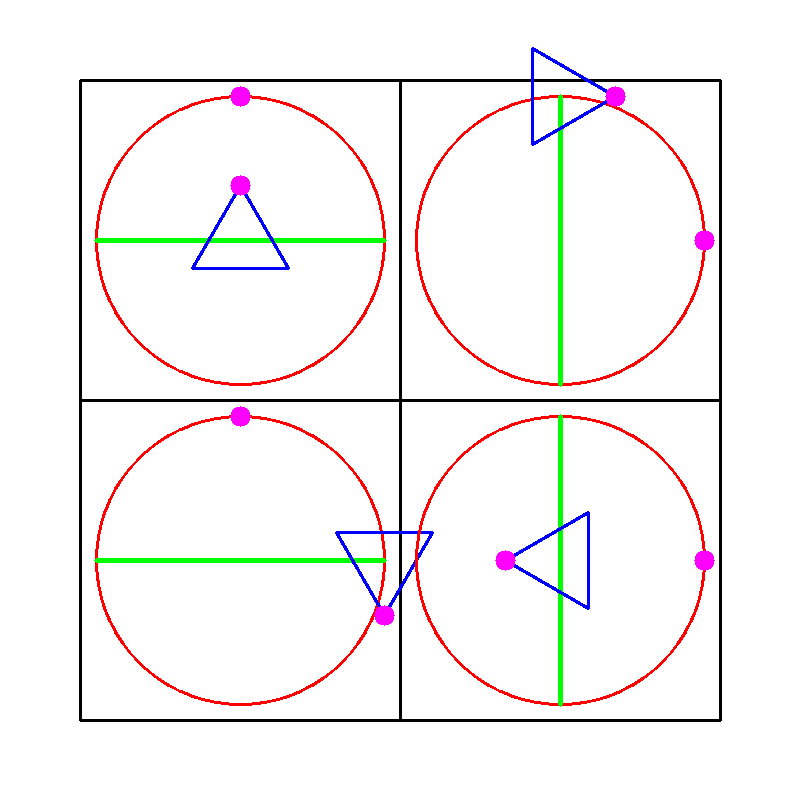
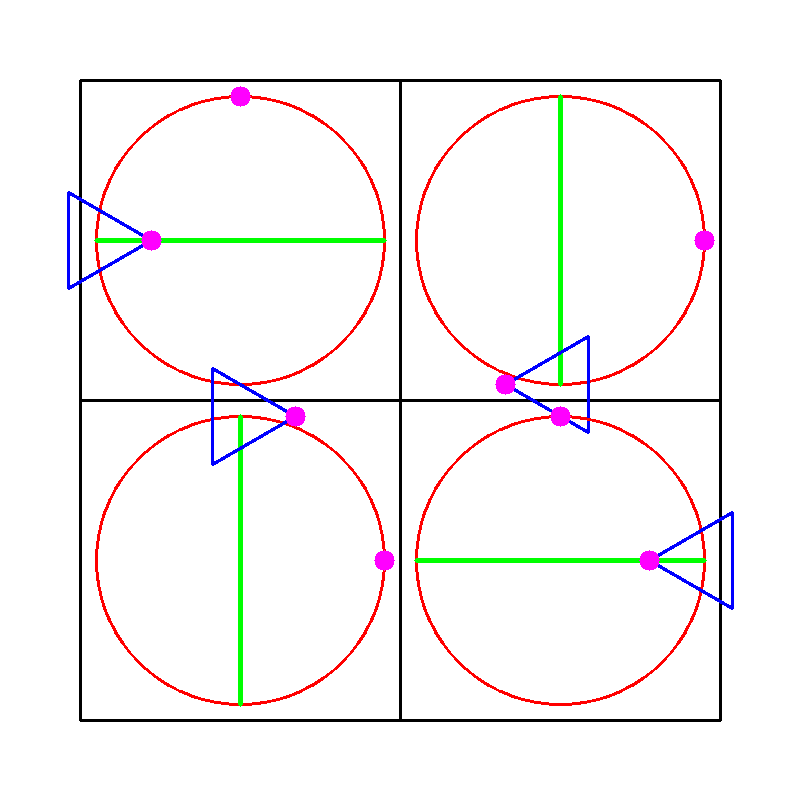
v3 수정 완료

diff --git a/SW/Chain2/main/Chain2_v3.py b/SW/Chain2/main/Chain2_v3.py
@@ -1,0 +1,222 @@
+from pathlib import Path
+import os
+import json
+import re
+import argparse
+from openai import OpenAI
+import time
+
+class SeatControlChatbot:
+    def __init__(self):
+        self.client = None
+        self.chat_history = []
+        self.code_block_regex = re.compile(r"```(.*?)```", re.DOTALL)
+        self.colors = self.Colors()
+        
+    class Colors:
+        RED = "\033[31m"
+        ENDC = "\033[m"
+        GREEN = "\033[32m"
+        YELLOW = "\033[33m"
+        BLUE = "\033[34m"
+
+    def load_openai_api_key(self):
+        """tetris_secrets.json 파일에서 OpenAI API 키 로드"""
+        possible_paths = [
+            Path.home() / "Desktop" / "AIRL_ATM" / "SW" / "tetris_secrets.json",
+            Path.home() / "Desktop" / "AIRL_ATM" / "tetris_secrets.json",
+            Path("C:/Users/User/Desktop/AIRL_ATM/SW/tetris_secrets.json"),
+            Path("C:/Users/User/Desktop/AIRL_ATM/tetris_secrets.json"),
+            Path("C:/Users/AIRL/Desktop/Test/AIRL_ATM/SW/tetris_secrets.json")
+        ]
+        
+        secrets_path = None
+        for path in possible_paths:
+            print(f"🔍 탐색 중: {path}")
+            if path.exists():
+                secrets_path = path
+                print(f"✅ 파일 발견: {secrets_path}")
+                break
+        
+        if not secrets_path:
+            print("❌ 다음 위치에서 tetris_secrets.json 파일을 찾을 수 없습니다:")
+            for path in possible_paths:
+                print(f"  - {path}")
+            raise FileNotFoundError("🚨 tetris_secrets.json 파일을 찾을 수 없습니다.")
+        
+        try:
+            with open(secrets_path, 'r', encoding='utf-8') as f:
+                secrets = json.load(f)
+            
+            # OpenAI 클라이언트 설정
+            if "openai" in secrets and "OPENAI_API_KEY" in secrets["openai"]:
+                api_key = secrets["openai"]["OPENAI_API_KEY"]
+            elif "OPENAI_API_KEY" in secrets:
+                api_key = secrets["OPENAI_API_KEY"]
+            else:
+                raise KeyError("OpenAI API 키를 찾을 수 없습니다")
+            
+            self.client = OpenAI(api_key=api_key)
+            os.environ["OPENAI_API_KEY"] = api_key
+            
+            print("🔑 OpenAI API 키 로드 완료")
+            
+        except KeyError as e:
+            raise KeyError(f"🚨 OpenAI API 키를 찾을 수 없습니다: {e}")
+        except json.JSONDecodeError:
+            raise ValueError("🚨 tetris_secrets.json 파일 형식이 올바르지 않습니다")
+
+    def load_prompts(self, prompt_path, sysprompt_path):
+        """프롬프트 파일들 로드"""
+        try:
+            with open(sysprompt_path, "r", encoding='utf-8') as f:
+                sysprompt = f.read()
+            
+            with open(prompt_path, "r", encoding='utf-8') as f:
+                prompt = f.read()
+                
+            return sysprompt, prompt
+        except FileNotFoundError as e:
+            print(f"🚨 프롬프트 파일을 찾을 수 없습니다: {e}")
+            # 기본 시스템 프롬프트 사용
+            sysprompt = "You are a helpful seat control assistant. Provide seat control commands in Python code format."
+            prompt = "Initialize seat control system"
+            return sysprompt, prompt
+
+    def initialize_chat_history(self, sysprompt):
+        """채팅 기록 초기화"""
+        self.chat_history = [
+            {
+                "role": "system",
+                "content": sysprompt
+            },
+            {
+                "role": "user",
+                "content": "all seat face forward"
+            },
+            {
+                "role": "assistant",
+                "content": """```python
+{
+    "seat1": ("W", "B", "F"),
+    "seat2": ("H", "A", "F"),
+    "seat3": ("H", "C", "F"),
+    "seat4": ("W", "B", "F")
+}
+```
+
+This output seat settings to face the seat forward a new direction that is seat_direction("F")."""
+            }
+        ]
+
+    def ask(self, prompt):
+        """ChatGPT에게 질문하고 응답 받기"""
+        self.chat_history.append({
+            "role": "user",
+            "content": prompt,
+        })
+        
+        try:
+            response = self.client.chat.completions.create(
+                model="gpt-3.5-turbo",
+                messages=self.chat_history,
+                temperature=0
+            )
+            
+            content = response.choices[0].message.content
+            self.chat_history.append({
+                "role": "assistant",
+                "content": content,
+            })
+            
+            return content
+        except Exception as e:
+            print(f"🚨 OpenAI API 호출 중 오류 발생: {e}")
+            return "죄송합니다. 응답을 생성할 수 없습니다."
+
+    def extract_python_code(self, content):
+        """응답에서 Python 코드 추출"""
+        code_blocks = self.code_block_regex.findall(content)
+        if code_blocks:
+            full_code = "\n".join(code_blocks)
+            if full_code.startswith("python"):
+                full_code = full_code[7:]
+            return full_code
+        return None
+
+    def run_chatbot(self, prompt_path="SW/Chain2/main/source/chain2_basic.txt", 
+                   sysprompt_path="SW/Chain2/main/source/chain2_system.txt"):
+        """챗봇 메인 실행 함수"""
+        try:
+            # API 키 로드
+            print("Initializing ChatGPT...")
+            self.load_openai_api_key()
+            
+            # 프롬프트 로드
+            sysprompt, initial_prompt = self.load_prompts(prompt_path, sysprompt_path)
+            
+            # 채팅 기록 초기화
+            self.initialize_chat_history(sysprompt)
+            
+            print("Initializing Seat Control System...")
+            
+            # 초기 프롬프트 실행
+            self.ask(initial_prompt)
+            
+            print("Done.")
+            print("Welcome to the Seat Control chatbot! I am ready to help you with your seat control questions and commands.")
+            print("Commands: !quit or !exit to exit, !clear to clear screen")
+            
+            # 메인 챗봇 루프
+            while True:
+                question = input(self.colors.YELLOW + "SeatControl> " + self.colors.ENDC)
+                
+                if question in ["!quit", "!exit"]:
+                    print("챗봇을 종료합니다.")
+                    break
+                
+                if question == "!clear":
+                    os.system("cls" if os.name == "nt" else "clear")
+                    continue
+                
+                if not question.strip():
+                    continue
+                
+                # ChatGPT에게 질문
+                response = self.ask(question)
+                print(f"\n{response}\n")
+                
+                # Python 코드 추출 및 실행
+                code = self.extract_python_code(response)
+                if code is not None:
+                    print("Please wait while I execute the seat control commands...")
+                    try:
+                        exec(code)
+                        print("Seat control executed successfully!\n")
+                    except Exception as e:
+                        print(f"Error executing seat control: {e}\n")
+                else:
+                    print("No executable code found in the response.\n")
+                    
+        except Exception as e:
+            print(f"🚨 챗봇 실행 중 오류 발생: {e}")
+
+
+def main():
+    """메인 함수"""
+    parser = argparse.ArgumentParser(description="Seat Control Chatbot")
+    parser.add_argument("--prompt", type=str, 
+                       default="SW/Chain2/main/source/chain2_basic.txt",
+                       help="Basic prompt file path")
+    parser.add_argument("--sysprompt", type=str, 
+                       default="SW/Chain2/main/source/chain2_system.txt",
+                       help="System prompt file path")
+    args = parser.parse_args()
+    
+    # 챗봇 인스턴스 생성 및 실행
+    chatbot = SeatControlChatbot()
+    chatbot.run_chatbot(args.prompt, args.sysprompt)
+
+
+if __name__ == "__main__":
+    main()

diff --git a/SW/Chain2/opencv/opencv_4cell_v3.py b/SW/Chain2/opencv/opencv_4cell_v3.py
@@ -143,10 +143,10 @@ def create_divided_square(cell_configs):
 def main():
     # 셀 설정
     cell_configs = {
-        1: ('W', 'B', 'F'),  # 가로선, 중심, 북쪽
-        2: ('H', 'A', 'R'),  # 세로선, 시작점, 동쪽
-        3: ('W', 'C', 'B'),  # 가로선, 종점, 남쪽
-        4: ('H', 'B', 'L')   # 세로선, 중심, 서쪽
+        1: ("W", "A", "R"),  # 가로선, 중심, 북쪽
+        2: ("H", "C", "L"),  # 세로선, 시작점, 동쪽
+        3: ("H", "A", "R"),  # 가로선, 종점, 남쪽
+        4: ("W", "C", "L")   # 세로선, 중심, 서쪽
     }
     
     # 이미지 생성

diff --git a/SW/Chain2/opencv/api_v1.py b/SW/Chain2/opencv/api_v1.py
@@ -192,10 +192,10 @@ def render_divided_square(
 
 if __name__ == "__main__":
     cfg = {
-        1: ("W", "B", "F"),
-        2: ("H", "A", "R"),
-        3: ("W", "C", "B"),
-        4: ("H", "B", "L"),
+        1: ("W", "A", "R"),
+        2: ("H", "C", "L"),
+        3: ("H", "A", "R"),
+        4: ("W", "C", "L"),
     }
 
     result = render_divided_square(cfg)
